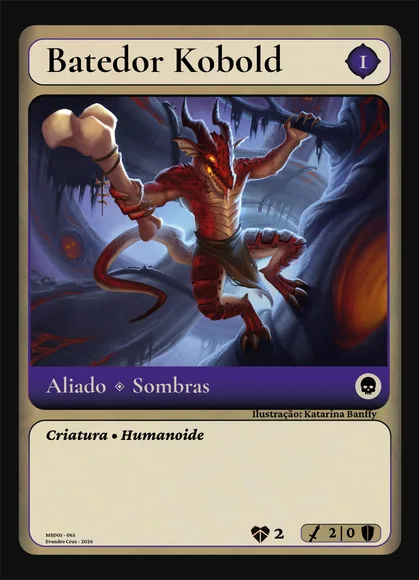
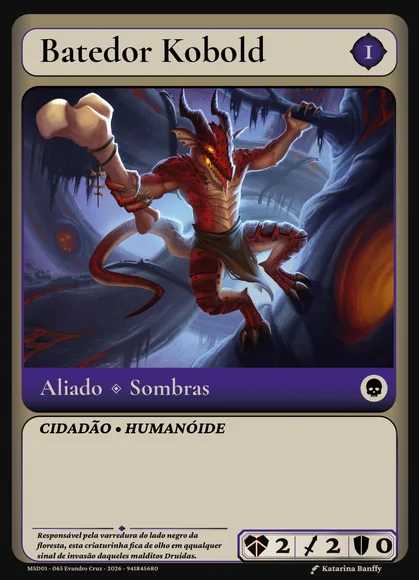
feat: update ally and spell asset images for improved visual quality

diff --git a/client/public/cards/cartas.js b/client/public/cards/cartas.js
@@ -112,7 +112,7 @@ const CARD_DEFS = [
     name: 'Bartolomeu, o Inspirador', kind: 'ally', img: '/allies/layout-bartolomeuinspirador.ai.png', cost: 4, classe: 'Cidadão', tipo: 'Humano', filiacao: 'Arcana', ac: 1, hp: 5, maxHp: 5, damage: 2, atkBonus: 2, keywords: [], effect: 'chamar_cidadao', text: 'Quando este aliado for derrotado em combate e enviado do campo para o seu cemitério, você pode convocar um aliado "Cidadão", com nome diferente deste, da sua mão sem pagar o custo dele.', chamarEspecial: { classe: 'Cidadão', origem: ['hand'] }
   },
   {
-      name: 'Batedor Kobold', kind: 'ally', img: '/allies/layout-batedorkobold.ai.png', cost: 1, classe: 'Criatura', tipo: 'Humanoide', filiacao: 'Sombras', ac: 0, hp: 2, maxHp: 2, damage: 2, atkBonus: 2, keywords: [], effect: '', text: ''
+      name: 'Batedor Kobold', kind: 'ally', img: '/allies/layout-batedorkobold.ai.png', cost: 1, classe: 'Cidadão', tipo: 'Humanoide', filiacao: 'Sombras', ac: 0, hp: 2, maxHp: 2, damage: 2, atkBonus: 2, keywords: [], effect: '', text: ''
   },
   {
   name: 'Aprendiz de Magia', kind: 'ally', img: '/allies/layout-aprendizmagia.ai.png', cost: 1, classe: 'Cidadão', tipo: 'Humano', filiacao: 'Neutra', ac: 0, hp: 2, maxHp: 2, damage: 1, atkBonus: 1, keywords: [], text: ''
